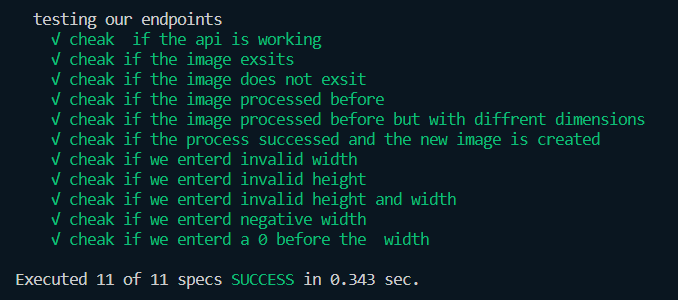
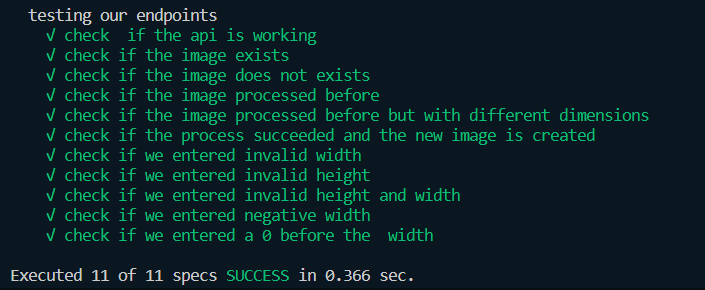
final version

Changed region(s): [[0.031, 0.031, 0.9602, 0.8379], [0.0, 0.9, 0.6195, 0.9931]]

diff --git a/dist/tests/indexSpec.js b/dist/tests/indexSpec.js
@@ -17,7 +17,7 @@ const __1 = require("..");
 const __2 = require("..");
 const fs_1 = __importDefault(require("fs"));
 const path_1 = __importDefault(require("path"));
-const requset = (0, supertest_1.default)(__1.app);
+const request = (0, supertest_1.default)(__1.app);
 describe("testing our endpoints", () => {
     beforeEach(() => {
         const directory = path_1.default.resolve("./processed-images");
@@ -32,50 +32,50 @@ describe("testing our endpoints", () => {
             }
         });
     });
-    it("cheak  if the api is working", () => __awaiter(void 0, void 0, void 0, function* () {
-        const response = yield requset.get("/image?name=santamonica&width=800&height=120");
+    it("check  if the api is working", () => __awaiter(void 0, void 0, void 0, function* () {
+        const response = yield request.get("/image?name=santamonica&width=800&height=120");
         expect(response.status).toBe(200);
     }));
-    it("cheak if the image exsits", () => __awaiter(void 0, void 0, void 0, function* () {
-        yield requset.get("/image?name=fjord");
+    it("check if the image exists", () => __awaiter(void 0, void 0, void 0, function* () {
+        yield request.get("/image?name=fjord");
         expect(__2.status.exsit).toBe(true);
     }));
-    it("cheak if the image does not exsit", () => __awaiter(void 0, void 0, void 0, function* () {
-        yield requset.get("/image?name=f2jord");
+    it("check if the image does not exists", () => __awaiter(void 0, void 0, void 0, function* () {
+        yield request.get("/image?name=f2jord");
         expect(__2.status.exsit).toBe(false);
     }));
-    it("cheak if the image processed before", () => __awaiter(void 0, void 0, void 0, function* () {
-        yield requset.get("/image?name=fjord&width=200&height=440");
-        yield requset.get("/image?name=fjord&width=200&height=440");
+    it("check if the image processed before", () => __awaiter(void 0, void 0, void 0, function* () {
+        yield request.get("/image?name=fjord&width=200&height=440");
+        yield request.get("/image?name=fjord&width=200&height=440");
         expect(__2.status.processed).toBe(true);
     }));
-    it("cheak if the image processed before but with diffrent dimensions", () => __awaiter(void 0, void 0, void 0, function* () {
-        yield requset.get("/image?name=fjord&width=200&height=440");
-        yield requset.get("/image?name=fjord&width=200&height=450");
+    it("check if the image processed before but with different dimensions", () => __awaiter(void 0, void 0, void 0, function* () {
+        yield request.get("/image?name=fjord&width=200&height=440");
+        yield request.get("/image?name=fjord&width=200&height=450");
         expect(__2.status.processed).toBe(false);
     }));
-    it("cheak if the process successed and the new image is created ", () => __awaiter(void 0, void 0, void 0, function* () {
-        yield requset.get("/image?name=fjord&width=200&height=440");
+    it("check if the process succeeded and the new image is created ", () => __awaiter(void 0, void 0, void 0, function* () {
+        yield request.get("/image?name=fjord&width=200&height=440");
         expect(__2.status.successed).toBe(true);
     }));
-    it("cheak if we enterd invalid width", () => __awaiter(void 0, void 0, void 0, function* () {
-        yield requset.get("/image?name=fjord&width=200d&height=40");
+    it("check if we entered invalid width", () => __awaiter(void 0, void 0, void 0, function* () {
+        yield request.get("/image?name=fjord&width=200d&height=40");
         expect(__2.status.successed).toBe(false);
     }));
-    it("cheak if we enterd invalid height", () => __awaiter(void 0, void 0, void 0, function* () {
-        yield requset.get("/image?name=fjord&width=200&height=4s0");
+    it("check if we entered invalid height", () => __awaiter(void 0, void 0, void 0, function* () {
+        yield request.get("/image?name=fjord&width=200&height=4s0");
         expect(__2.status.successed).toBe(false);
     }));
-    it("cheak if we enterd invalid height and width", () => __awaiter(void 0, void 0, void 0, function* () {
-        yield requset.get("/image?name=fjord&width=20d0&height=4s0");
+    it("check if we entered invalid height and width", () => __awaiter(void 0, void 0, void 0, function* () {
+        yield request.get("/image?name=fjord&width=20d0&height=4s0");
         expect(__2.status.successed).toBe(false);
     }));
-    it("cheak if we enterd negative width", () => __awaiter(void 0, void 0, void 0, function* () {
-        yield requset.get("/image?name=fjord&width=20d0&height=-40");
+    it("check if we entered negative width", () => __awaiter(void 0, void 0, void 0, function* () {
+        yield request.get("/image?name=fjord&width=20d0&height=-40");
         expect(__2.status.successed).toBe(false);
     }));
-    it("cheak if we enterd a 0 before the  width", () => __awaiter(void 0, void 0, void 0, function* () {
-        yield requset.get("/image?name=fjord&width=200&height=040");
+    it("check if we entered a 0 before the  width", () => __awaiter(void 0, void 0, void 0, function* () {
+        yield request.get("/image?name=fjord&width=200&height=040");
         expect(__2.status.successed).toBe(true);
     }));
 });

diff --git a/src/tests/indexSpec.ts b/src/tests/indexSpec.ts
@@ -4,7 +4,7 @@ import { status } from "..";
 import fs from "fs";
 import path from "path";
 
-const requset = supertest(app);
+const request = supertest(app);
 
 describe("testing our endpoints", () => {
   beforeEach(() => {
@@ -19,52 +19,52 @@ describe("testing our endpoints", () => {
       }
     });
   });
-  it("cheak  if the api is working", async () => {
-    const response = await requset.get(
+  it("check  if the api is working", async () => {
+    const response = await request.get(
       "/image?name=santamonica&width=800&height=120"
     );
     expect(response.status).toBe(200);
   });
-  it("cheak if the image exsits", async () => {
-    await requset.get("/image?name=fjord");
+  it("check if the image exists", async () => {
+    await request.get("/image?name=fjord");
     expect(status.exsit).toBe(true);
   });
-  it("cheak if the image does not exsit", async () => {
-    await requset.get("/image?name=f2jord");
+  it("check if the image does not exists", async () => {
+    await request.get("/image?name=f2jord");
     expect(status.exsit).toBe(false);
   });
-  it("cheak if the image processed before", async () => {
-    await requset.get("/image?name=fjord&width=200&height=440");
-    await requset.get("/image?name=fjord&width=200&height=440");
+  it("check if the image processed before", async () => {
+    await request.get("/image?name=fjord&width=200&height=440");
+    await request.get("/image?name=fjord&width=200&height=440");
     expect(status.processed).toBe(true);
   });
-  it("cheak if the image processed before but with diffrent dimensions", async () => {
-    await requset.get("/image?name=fjord&width=200&height=440");
-    await requset.get("/image?name=fjord&width=200&height=450");
+  it("check if the image processed before but with different dimensions", async () => {
+    await request.get("/image?name=fjord&width=200&height=440");
+    await request.get("/image?name=fjord&width=200&height=450");
     expect(status.processed).toBe(false);
   });
-  it("cheak if the process successed and the new image is created ", async () => {
-    await requset.get("/image?name=fjord&width=200&height=440");
+  it("check if the process succeeded and the new image is created ", async () => {
+    await request.get("/image?name=fjord&width=200&height=440");
     expect(status.successed).toBe(true);
   });
-  it("cheak if we enterd invalid width", async () => {
-    await requset.get("/image?name=fjord&width=200d&height=40");
+  it("check if we entered invalid width", async () => {
+    await request.get("/image?name=fjord&width=200d&height=40");
     expect(status.successed).toBe(false);
   });
-  it("cheak if we enterd invalid height", async () => {
-    await requset.get("/image?name=fjord&width=200&height=4s0");
+  it("check if we entered invalid height", async () => {
+    await request.get("/image?name=fjord&width=200&height=4s0");
     expect(status.successed).toBe(false);
   });
-  it("cheak if we enterd invalid height and width", async () => {
-    await requset.get("/image?name=fjord&width=20d0&height=4s0");
+  it("check if we entered invalid height and width", async () => {
+    await request.get("/image?name=fjord&width=20d0&height=4s0");
     expect(status.successed).toBe(false);
   });
-  it("cheak if we enterd negative width", async () => {
-    await requset.get("/image?name=fjord&width=20d0&height=-40");
+  it("check if we entered negative width", async () => {
+    await request.get("/image?name=fjord&width=20d0&height=-40");
     expect(status.successed).toBe(false);
   });
-  it("cheak if we enterd a 0 before the  width", async () => {
-    await requset.get("/image?name=fjord&width=200&height=040");
+  it("check if we entered a 0 before the  width", async () => {
+    await request.get("/image?name=fjord&width=200&height=040");
     expect(status.successed).toBe(true);
   });
 });

diff --git a/README.md b/README.md
@@ -4,27 +4,27 @@ a Udacity Project for web development advanced track by FWD
 
 ## Introduction
 
-the project is simply an API that cheak if the image is exsited specific directory (images) and then resize that image with the specified width and height and create the image in another directory (processed-images)
-in this readme file we will walk through the code and the unit stests
+the project is simply an API that check if the image is existed specific directory (images) and then resize that image with the specified width and height and create the image in another directory (processed-images)
+in this readme file we will walk through the code and the unit tests
 
 ---
 
 ## The Code
 
-the code is going through 3 steps (3 middlewares) from the momoent we enter the endpoint in our browser
+the code is going through 3 steps (3 middleware) from the moment we enter the endpoint in our browser
 
-### check if the image is exsiting in first place
+### check if the image is existing in first place
 
-we will check the name parameter in the endpoint and cheack if that name exist at our directory (images) if it's not we will stop the process and send a response with an error message specifuing that the image does not exist
+we will check the name parameter in the endpoint and check if that name exist at our directory (images) if it's not we will stop the process and send a response with an error message specifying that the image does not exist
 
 ### check if the image hss been processed before with the same dimensions
 
 here we will merge the name parameter with the width and height parameters so the resulting will be /name_width_height
-and then cheack if that path exist at the directory which the preocessed images are there (processed-images) if there is a match no need to do the process again we just send that image as a response (caching) if there is not we will go to the last stage (middleware)
+and then check if that path exist at the directory which the precessed images are there (processed-images) if there is a match no need to do the process again we just send that image as a response (caching) if there is not we will go to the last stage (middleware)
 
 ### process the image
 
-here we will cheack if the paramters are valid first if are not we will send a response with an error message , after that we will resize the image with the help of a third-party library (sharp) and then we will save the image into (processed-images) in
+here we will check if the parameters are valid first if are not we will send a response with an error message , after that we will resize the image with the help of a third-party library (sharp) and then we will save the image into (processed-images) in
 a format like that /imageName_width_height.jpg
 
 ![an example of an endpoint](./images/Screenshot%202022-10-20%20011624.png)
@@ -33,31 +33,31 @@ a format like that /imageName_width_height.jpg
 
 ## the testing process
 
-here we got a 11 diffrent tests , contain all possible inputs that can a user entered the tests are :-
+here we got a 11 different tests , contain all possible inputs that can a user entered the tests are :-
 
-- cheak if the api is working
-- cheak if the image exsits
-- cheak if the image does not exsit
-- cheak if the image processed before
-- cheak if the image processed before but with diffrent dimensions
-- cheak if the process successed and the new image is created
-- cheak if we enterd invalid width
-- cheak if we enterd invalid height
-- cheak if we enterd invalid height and width
-- cheak if we enterd negative width
-- cheak if we enterd a 0 before the width
+- check if the api is working
+- check if the image exists
+- check if the image does not exist
+- check if the image processed before
+- check if the image processed before but with different dimensions
+- check if the process succeeded and the new image is created
+- check if we entered invalid width
+- check if we entered invalid height
+- check if we entered invalid height and width
+- check if we entered negative width
+- check if we entered a 0 before the width
 
-before each test we clean the (processed-images) folder so we can test the indidual actions and see how the code will handle those actions , we used jasmine framework and superset library for writing the tests
-![image for the tests](./images/Screenshot%202png.png)
+before each test we clean the (processed-images) folder so we can test the individual actions and see how the code will handle those actions , we used jasmine framework and superset library for writing the tests
+![image for the tests](./images/Screenshot%202png.png.png)
 
 ---
 
 ## scripts for that code
 
-if you go to the package.json you will find the scripts and all the other informations relative to this project like the dependencies and devDependencies
+if you go to the package.json you will find the scripts and all the other information relative to this project like the dependencies and devDependencies
 
 ### the scripts :-
 
 - start : for starting the server
 - test : for starting the unit tests
-- build : for converting the typesripts files to javascripts
+- build : for converting the typescript files to javascript
